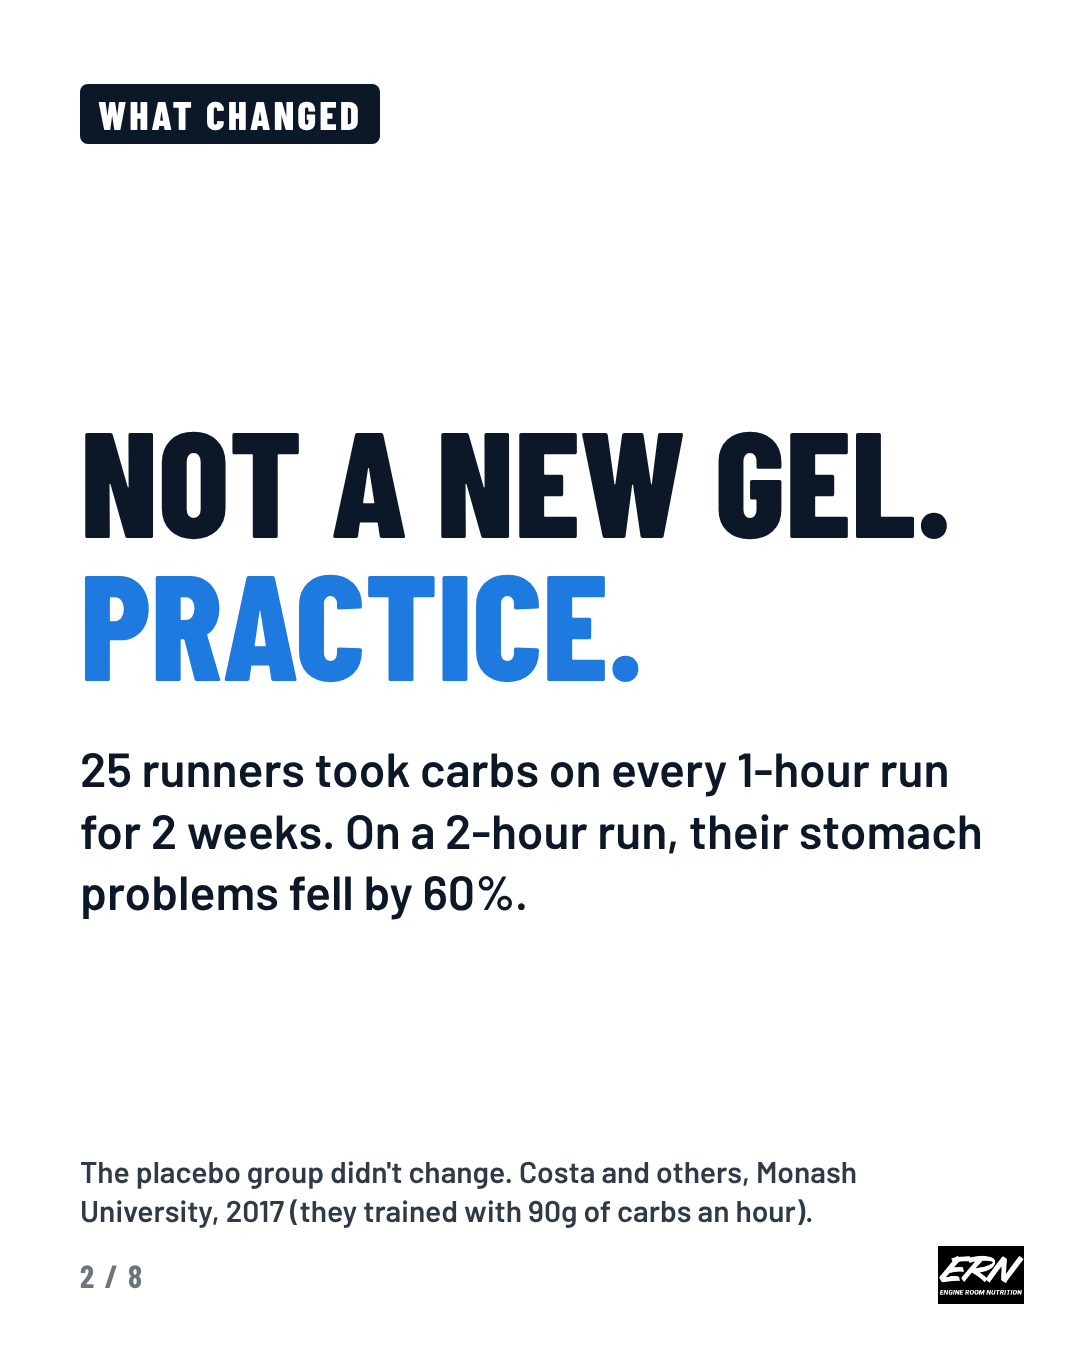
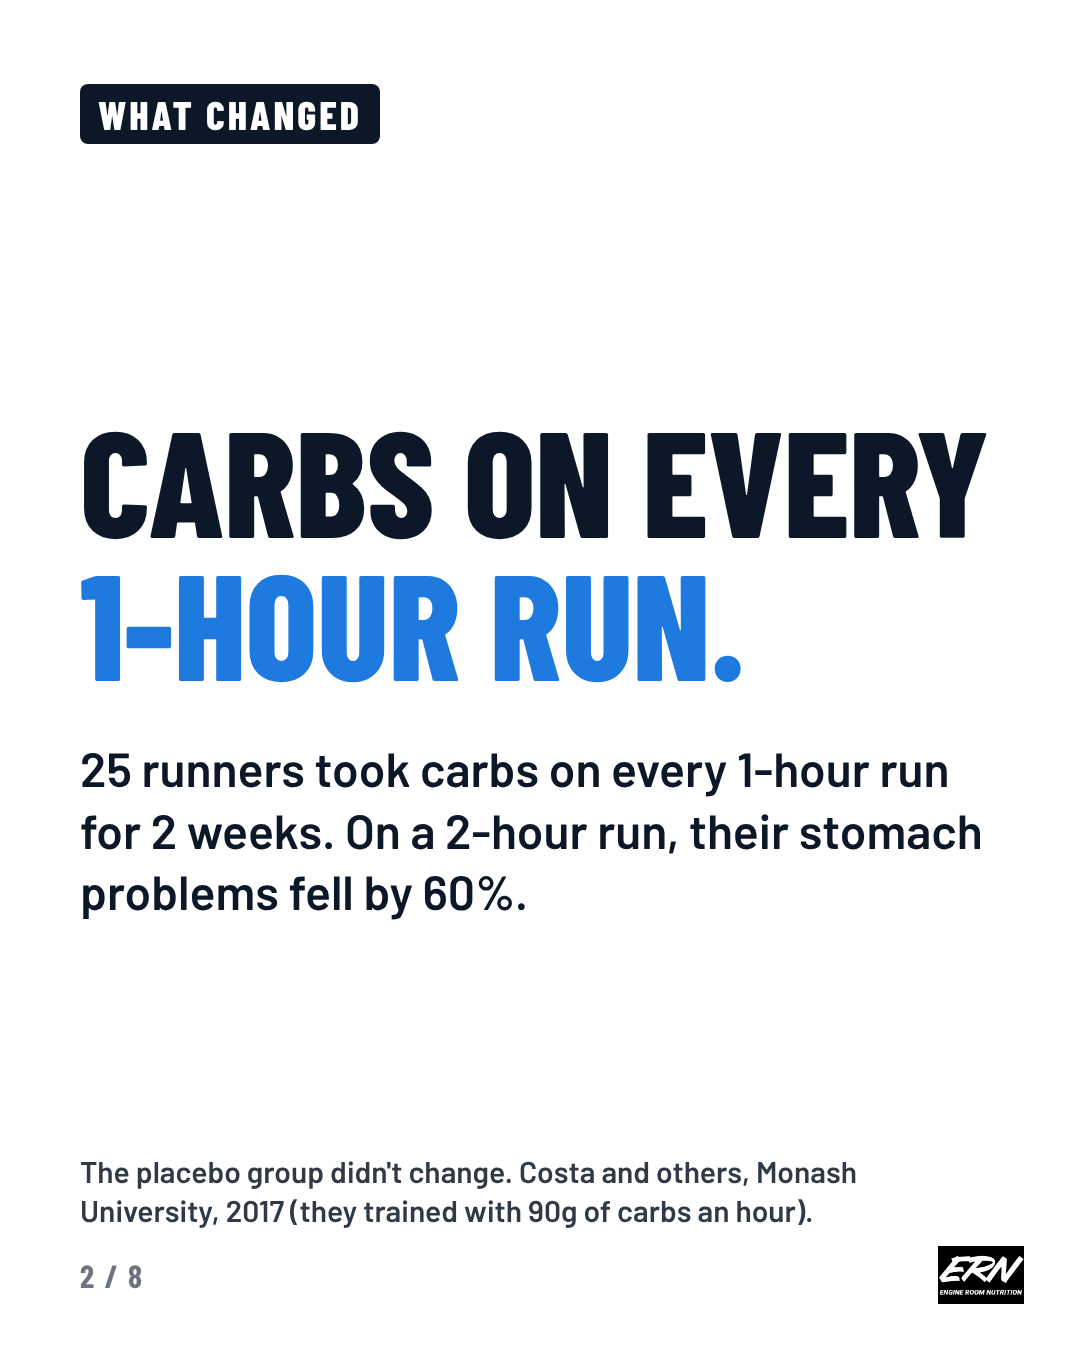
Gut carousel v3: strike the belief not the symptom, gel plan, new band and slide 2 (second cold review)
Claude-Session: https://claude.ai/code/session_01C5bFwjsy7wubJR84HAMdDJ

Changed region(s): [[0.0611, 0.3111, 0.7333, 0.5289], [0.7639, 0.3111, 0.9167, 0.4044]]

diff --git a/motion/carousel-gut/carousel.html b/motion/carousel-gut/carousel.html
@@ -75,12 +75,12 @@ function mix(a,b,p){const o={};for(const k in a)o[k]=lerp(a[k],b[k]!=null?b[k]:a
 
 const Q=new URLSearchParams(location.search), H=+Q.get('h')||1350, n=+Q.get('n')||1, N=8;
 document.body.style.height=H+'px';
-const TITLE=(Q.get('title')||"'GELS MAKE ME SICK' / 60% LESS SICK / IN 2 WEEKS / (BEFORE YOUR MARATHON)"), RED=(Q.get('red')||'60%');
+const TITLE=(Q.get('title')||"'MY STOMACH CAN'T TAKE GELS' / 60% LESS SICK / IN 2 WEEKS / (YOUR MARATHON GEL PLAN)"), RED=(Q.get('red')||'60%');
 const hl=(t)=>t.split(RED).join(`<span class="red">${RED}</span>`);
 const S={
 1:()=>{const L=TITLE.split(' / ');return {bg:'var(--navy)',logo:'white',cover:true,html:`
   <div style="position:absolute;left:70px;right:60px;top:0;height:${Math.round(H*.62)}px;display:flex;flex-direction:column;justify-content:center">
-   <div class="h" style="font-size:96px;color:rgba(255,255,255,.92);position:relative;align-self:flex-start">${L[0]}<span style="position:absolute;left:-8px;right:-8px;top:46%;height:14px;background:var(--red);transform:rotate(-2deg)"></span></div>
+   <div class="h" style="font-size:80px;color:rgba(255,255,255,.92);position:relative;align-self:flex-start">${L[0]}<span style="position:absolute;left:-8px;right:-8px;top:50%;height:8px;background:var(--red);opacity:.9;transform:rotate(-1.5deg)"></span></div>
    <div class="h" style="color:var(--yel);font-size:150px;margin-top:26px">${L[1]}</div>
    <div class="h" style="color:#fff;font-size:118px">${L[2]||''}</div>
    <div class="h" style="color:#fff;font-size:66px;margin-top:12px;opacity:.9">${L[3]||''}</div>
@@ -88,11 +88,11 @@ const S={
   <div style="position:absolute;left:0;right:0;bottom:0;height:${Math.round(H*.40)}px;background:var(--yel);clip-path:polygon(0 16%,100% 0,100% 100%,0 100%)"></div>
   <canvas id="cv" width="1080" height="${H}" style="position:absolute;left:0;top:0"></canvas>
   <div style="position:absolute;left:470px;right:60px;bottom:${Math.round(H*.12)}px">
-    <div class="h" style="font-size:80px;color:var(--navy)">THE 2-WEEK PLAN<br><span style="font-size:58px">IS INSIDE. SWIPE →</span></div>
+    <div class="h" style="font-size:80px;color:var(--navy)">START ON YOUR<br>NEXT RUN.<br><span style="font-size:58px">SWIPE →</span></div>
   </div>`}},
 2:()=>({bg:'var(--white)',html:`
   <span class="tag" style="background:var(--navy);color:#fff">WHAT CHANGED</span>
-  <div class="h" style="font-size:150px">NOT A NEW GEL.<br><span style="color:var(--blue)">PRACTICE.</span></div>
+  <div class="h" style="font-size:150px">CARBS ON EVERY<br><span style="color:var(--blue)">1-HOUR RUN.</span></div>
   <div class="p" style="margin-top:46px">25 runners took carbs on every 1-hour run for 2 weeks. On a 2-hour run, their stomach problems fell by 60%.</div>
   <div class="src">The placebo group didn't change. Costa and others, Monash University, 2017 (they trained with 90g of carbs an hour).</div>`}),
 3:()=>({bg:'var(--white)',html:`
@@ -134,7 +134,7 @@ const S={
    <tr><td>VALENCIA · 6 DEC</td><td class="r" style="color:var(--navy)">START SUN 22 NOV</td></tr>
    <tr><td>SPRING MARATHON</td><td class="r" style="color:var(--navy)">YOUR NEXT LONG RUN</td></tr></table>`}),
 8:()=>({bg:'var(--navy)',logo:'white',html:`
-  <div class="h" style="color:#fff;font-size:100px">SEND THIS TO<br>THE FRIEND WHO SAYS<br><span style="color:var(--yel)">'GELS MAKE<br>ME SICK'</span></div>
+  <div class="h" style="color:#fff;font-size:100px">SEND THIS TO<br>THE FRIEND WHOSE<br>STOMACH <span style="color:var(--yel)">'CAN'T<br>TAKE GELS'</span></div>
   <div class="p" style="color:#fff;margin-top:60px">Want your race-day gel clock for your goal time? Email us through the link in our bio and we'll send it free.</div>
   <div class="h src" style="color:var(--yel);font-size:60px;opacity:1">FOLLOW @ENGINEROOMNUTRITION</div>`}),
 };

diff --git a/ideas/engine-room-nutrition/2026-11-19-carousel-gut.md b/ideas/engine-room-nutrition/2026-11-19-carousel-gut.md
@@ -7,7 +7,7 @@ images: motion/carousel-gut/instagram-4x5/slide-01..08.png (page motion/carousel
 titles: 2026-11-19-titles-carousel-watch.md (+ -review: killed, a repeat of 14 Oct, 18 Oct, 20 Oct, 6 Nov), 2026-11-19-titles-carousel-gut.md (+ -review)
 ---
 
-# 'GELS MAKE ME SICK' (struck through) / 60% LESS SICK IN 2 WEEKS / (BEFORE YOUR MARATHON)
+# 'MY STOMACH CAN'T TAKE GELS' (struck through) / 60% LESS SICK / IN 2 WEEKS / (YOUR MARATHON GEL PLAN)
 
 v2 after the second review (council, Ogilvy, scorecard), 8 slides. v1 cover and slide plan kept below the review for the record.
 
@@ -27,18 +27,18 @@ IG: 2,865 views, reach 1,362, saves 8 (0.6% of reach), shares 3, likes 30 (2.2%)
 ## The slides (v2)
 | # | Background | Text |
 |---|---|---|
-| 1 | Navy, yellow band, our runner hunched with an arm across his stomach | 'GELS MAKE ME SICK' struck through in red; **60% LESS SICK** (yellow) / **IN 2 WEEKS** / (BEFORE YOUR MARATHON); THE 2-WEEK PLAN IS INSIDE. SWIPE → |
-| 2 | White | WHAT CHANGED. NOT A NEW GEL. PRACTICE. 25 runners took carbs on every 1-hour run for 2 weeks. On a 2-hour run, their stomach problems fell by 60%. Source: the placebo group didn't change; Costa and others, Monash University, 2017 (they trained with 90g of carbs an hour). |
+| 1 | Navy, yellow band, our runner hunched with an arm across his stomach | 'MY STOMACH CAN'T TAKE GELS' struck through in red (the belief, not their symptom); **60% LESS SICK** (yellow) / **IN 2 WEEKS** / (YOUR MARATHON GEL PLAN); START ON YOUR NEXT RUN. SWIPE → |
+| 2 | White | WHAT CHANGED. CARBS ON EVERY 1-HOUR RUN. (1-HOUR RUN in blue; 1 Oct said long runs) 25 runners took carbs on every 1-hour run for 2 weeks. On a 2-hour run, their stomach problems fell by 60%. Source: the placebo group didn't change; Costa and others, Monash University, 2017 (they trained with 90g of carbs an hour). |
 | 3 | White | THE MISTAKE. WATER-ONLY LONG RUNS. GELS FOR THE FIRST TIME AT THE MARATHON. Your legs got 16 weeks of training. Your gut got none. |
 | 4 | Navy | AND IT GOT THEM FURTHER. IN A 1-HOUR RUN 11.7K → 12.3K. Breath tests showed about half as much of the sugar going unabsorbed. (Miall and others, 2018) |
 | 5 | Blue | YOUR 2-WEEK GUT PLAN (unchanged from v1 slide 6) |
 | 6 | White | SCREENSHOT THIS: your gels by run length (unchanged from v1 slide 7) |
 | 7 | Yellow | WHEN TO START (unchanged from v1 slide 8) |
-| 8 | Navy | SEND THIS TO THE FRIEND WHO SAYS 'GELS MAKE ME SICK'. Want your race-day gel clock for your goal time? Email us through the link in our bio and we'll send it free. FOLLOW @ENGINEROOMNUTRITION |
+| 8 | Navy | SEND THIS TO THE FRIEND WHOSE STOMACH 'CAN'T TAKE GELS'. Want your race-day gel clock for your goal time? Email us through the link in our bio and we'll send it free. FOLLOW @ENGINEROOMNUTRITION |
 
 ## Gate fields
-- Cover OST: 'GELS MAKE ME SICK'? / 2 WEEKS CUT IT 60% / (YOUR MARATHON GUT PLAN), SICK in red
-- OST score: 8/10 (the cold reviewer's, rewrite B; loses test 7: gut training is a repeat for us and a common video elsewhere). Under the 9 the scorecard asks for: Luke decides
+- Cover OST (v3, after the second cold review): 'MY STOMACH CAN'T TAKE GELS' (struck) / 60% LESS SICK / IN 2 WEEKS / (YOUR MARATHON GEL PLAN). v1 scored 5 and v2 ('GELS MAKE ME SICK' struck) 6 on the second cold review: striking their symptom made the viewer the target, and line 2 admitted it
+- OST score: 8/10 (the second cold reviewer's rewrite R, `2026-11-19-titles-carousel-gut-v2-review.md`; the most this topic can score: loses test 7: gut training is a repeat for us and a common video elsewhere). Under the 9 the scorecard asks for: Luke decides
 - Title checker: PASS on T1 to T11 and T13 (T12 phone size is for the reel title card; on this cover the lines are 110px on a 1080 slide, about 10vw)
 - Repeat line: Your legs got 16 weeks of training. Your gut got none.
 - Keep: slide 7, 1 gel (0:20) to 5 gels (last 2:20) by run length; slide 8, Valencia start Sun 22 Nov
@@ -57,7 +57,7 @@ IG: 2,865 views, reach 1,362, saves 8 (0.6% of reach), shares 3, likes 30 (2.2%)
 | 9 | Navy | SEND THIS TO WHOEVER YOU DO YOUR LONG RUNS WITH. Want your race-day gel clock for your goal time? Email us through the link in our bio and we'll send it free. FOLLOW @ENGINEROOMNUTRITION |
 
 ## Caption
-"Gels make me sick" is the line we hear most, and in one study 2 weeks of practice cut it by 60%.
+"My stomach can't take gels" is one of the lines we hear most, and in one study 2 weeks of practice cut stomach problems by 60%.
 
 25 endurance runners did a 2-hour run taking carbs, then trained for 2 weeks with carbs on every 1-hour run. On the repeat 2-hour run their stomach problems were 60% lower, and the placebo group didn't change (Costa and others, Monash University, 2017). Breath tests showed about half as much sugar going unabsorbed, and they ran further in a 1-hour test, 11.7K to 12.3K (Miall and others, 2018).
 
@@ -81,7 +81,7 @@ What does your stomach do on a long run with gels? Tell us the K it starts.
 | 30g at 20 minutes, then every 30; none in the last 20; 40g every 40; 20-25g every 20 | FACTS Fuel | Pass |
 | Gels by run length (1 to 5) | Our clock applied to each length | Pass |
 | Valencia 6 Dec, start 22 Nov | FACTS Valencia; 14 days before | Pass |
-| "Gels make me sick is the line we hear most" | FACTS email answers on gels (texture, sick of them) | Luke to OK ("most" is our inbox, not a count) |
+| "My stomach can't take gels is one of the lines we hear most" | FACTS email answers on gels (texture, sick of them, hacking it down) | Luke to OK (our inbox, not a count) |
 
 ## Humanizer
 | Check | Result |
@@ -129,3 +129,6 @@ Plus: slide 2 repeated the cover's 60% (ledger row 29: each layer says something
 - **Executor:** post it as the collab today, pin the comment, TikTok 3:4 from the same page. Judge at 24 hours on two numbers: saves at 1.5%+ of reach (the heavier carousel got 0.6%) and over 3 views a person (the heavier got about 2).
 - **Blind cross-review:** the Outsider's bracket and the Expansionist's send line change the most for the least; the Contrarian's caveat is already met by slides 2 and 5; the Assumption-ripper's point needs no change.
 - **Chairman verdict:** C2 with the Outsider's bracket and the Expansionist's send line. Slide 2 becomes the turn (NOT A NEW GEL. PRACTICE.), the old "what they did" slide goes, so it's 8 slides.
+
+### After the second cold review (v3)
+The council's v2 struck through 'GELS MAKE ME SICK': the reviewer scored it 6 and failed the enemy-outside must-pass (crossing out their real symptom makes the viewer the target; 60% LESS SICK then admits it). v3 strikes the belief ('MY STOMACH CAN'T TAKE GELS'), says GEL PLAN not GUT PLAN (a gut plan reads as a diet), swaps the band for START ON YOUR NEXT RUN (the old band repeated the bracket, row 29), and slide 2 leads on CARBS ON EVERY 1-HOUR RUN (the part 1 Oct didn't say; PRACTICE was its payoff). 8/10, the ceiling for a repeat topic (tests 6 and 7).

diff --git a/ideas/engine-room-nutrition/2026-11-19-titles-carousel-gut-v2-review.md b/ideas/engine-room-nutrition/2026-11-19-titles-carousel-gut-v2-review.md
@@ -1,0 +1,39 @@
+---
+type: cold ost-review, carousel cover v2 (slide 1 + slide 2 judged together)
+reviewed: 2026-11-19-titles-carousel-gut-v2.md; instagram-4x5/slide-01.png, slide-02.png, contact-sheet.png (author's notes ignored)
+---
+
+| | Title | /10 | Must-passes | Strongest flop reason |
+|---|---|---|---|---|
+| C1 | 'GELS MAKE ME SICK'? / 2 WEEKS CUT IT 60% / (YOUR MARATHON GUT PLAN) | **5** (1,1,0,1,1,0,0,0,1,0) | Pass | The top line is a question, and "CUT IT" makes them work out what "it" is. Nothing lands in the first second |
+| C2 | ~~'GELS MAKE ME SICK'~~ / 60% LESS SICK / IN 2 WEEKS / (YOUR MARATHON GUT PLAN) | **6** (1,1,0,1,1,0,0,0,1,1) | **Fail** (enemy outside) | The strike calls their own stomach a liar, and then line 2 admits it was right: "60% less" means gels still make them sick |
+
+**Evidence for both covers.** Test 3: C1 has the pronoun, and C2's strike contradicts its own next line. Test 6: someone who doesn't run reads "gels" as hair gel. Test 7: gut practice went out on 16 Sep and 1 Oct, it's a common video on other accounts, and any fuel brand could post either cover unchanged. Test 8: nobody says "60% less sick" to a mate, because it reads like supplement-ad copy. Test 9: the plan bracket is a format tag, and it passes only because this is a carousel. The stranger asks "60% of what?" and "2 weeks of what?", and slide 2 answers both (25 runners, a 2-hour run, carbs on every 1-hour run). The bracket hints at a marathon result, but the study measured a 2-hour run, so the small print has to keep saying that.
+
+**Slide 2.** It answers the stranger's questions, but its headline repeats an old payoff and the number is still on the cover. PRACTICE is the 1 Oct payoff ("practise with exactly what you will race with"), and the body says 60% again. The new thing is buried in the body: carbs on **every 1-hour run**, where 1 Oct said long runs.
+
+**Cover band.** THE 2-WEEK PLAN IS INSIDE says the same thing as the bracket, so two layers make one point (row 29).
+
+**Levers.** Both covers have lever 2 (a belief broken) and half of lever 3 (SICK, but no race moment). Neither has lever 4 (these are study numbers, not their numbers) or lever 5.
+
+**Stays, saves, sends.** C2 gets more stops and swipes than C1: one big yellow claim, no question, and a drawn runner bent over his stomach. Saves come from slide 6's gel table and sends from slide 8, whichever cover runs. The strike will draw "they DO make me sick" comments. Those comments come from people defending themselves, and they don't lead to sends.
+
+**Grid, swap and memory.** Neither would sit in the top row of Briar's or Cian's grid. Both fail the swap test. "60%" is forgotten within an hour.
+
+## Top 3
+1. **R (below)** beats C2 because it keeps C2's layout and strike but crosses out a belief (a stomach that can't be changed) rather than a symptom, so line 2 now agrees with line 1.
+2. **C2** beats C1 because one big claim with no question reads at phone size, where C1 is a pronoun puzzle.
+3. **C1**: the question mark and "IT" use up the first second.
+
+## Rewrites
+**Cover R (8/10, 1,1,1,1,1,0,0,1,1,1):**
+~~'MY STOMACH CAN'T TAKE GELS'~~ (26, struck in red)
+60% LESS SICK (13, yellow)
+IN 2 WEEKS (10)
+(YOUR MARATHON GEL PLAN) (23)
+
+GEL PLAN, not GUT PLAN: the thing they save is slide 6's gel table, and "gut plan" reads as a diet. Line one is 7 characters longer than C2's top line, so check it at 7.0vw. Tests 6 and 7 stay at 0 because of the topic, not the wording, so 8 is the most this topic can score. Under the 9 rule, it runs only if Luke OKs the repeat.
+
+**Band:** START ON YOUR NEXT RUN. SWIPE → (30), which replaces the line that repeated the bracket.
+
+**Slide 2 headline:** CARBS ON EVERY (14) / 1-HOUR RUN. (11), with 1-HOUR RUN in blue. Keep the body and source line. It answers "2 weeks of what?" with the one part we haven't posted, and it drops PRACTICE.
